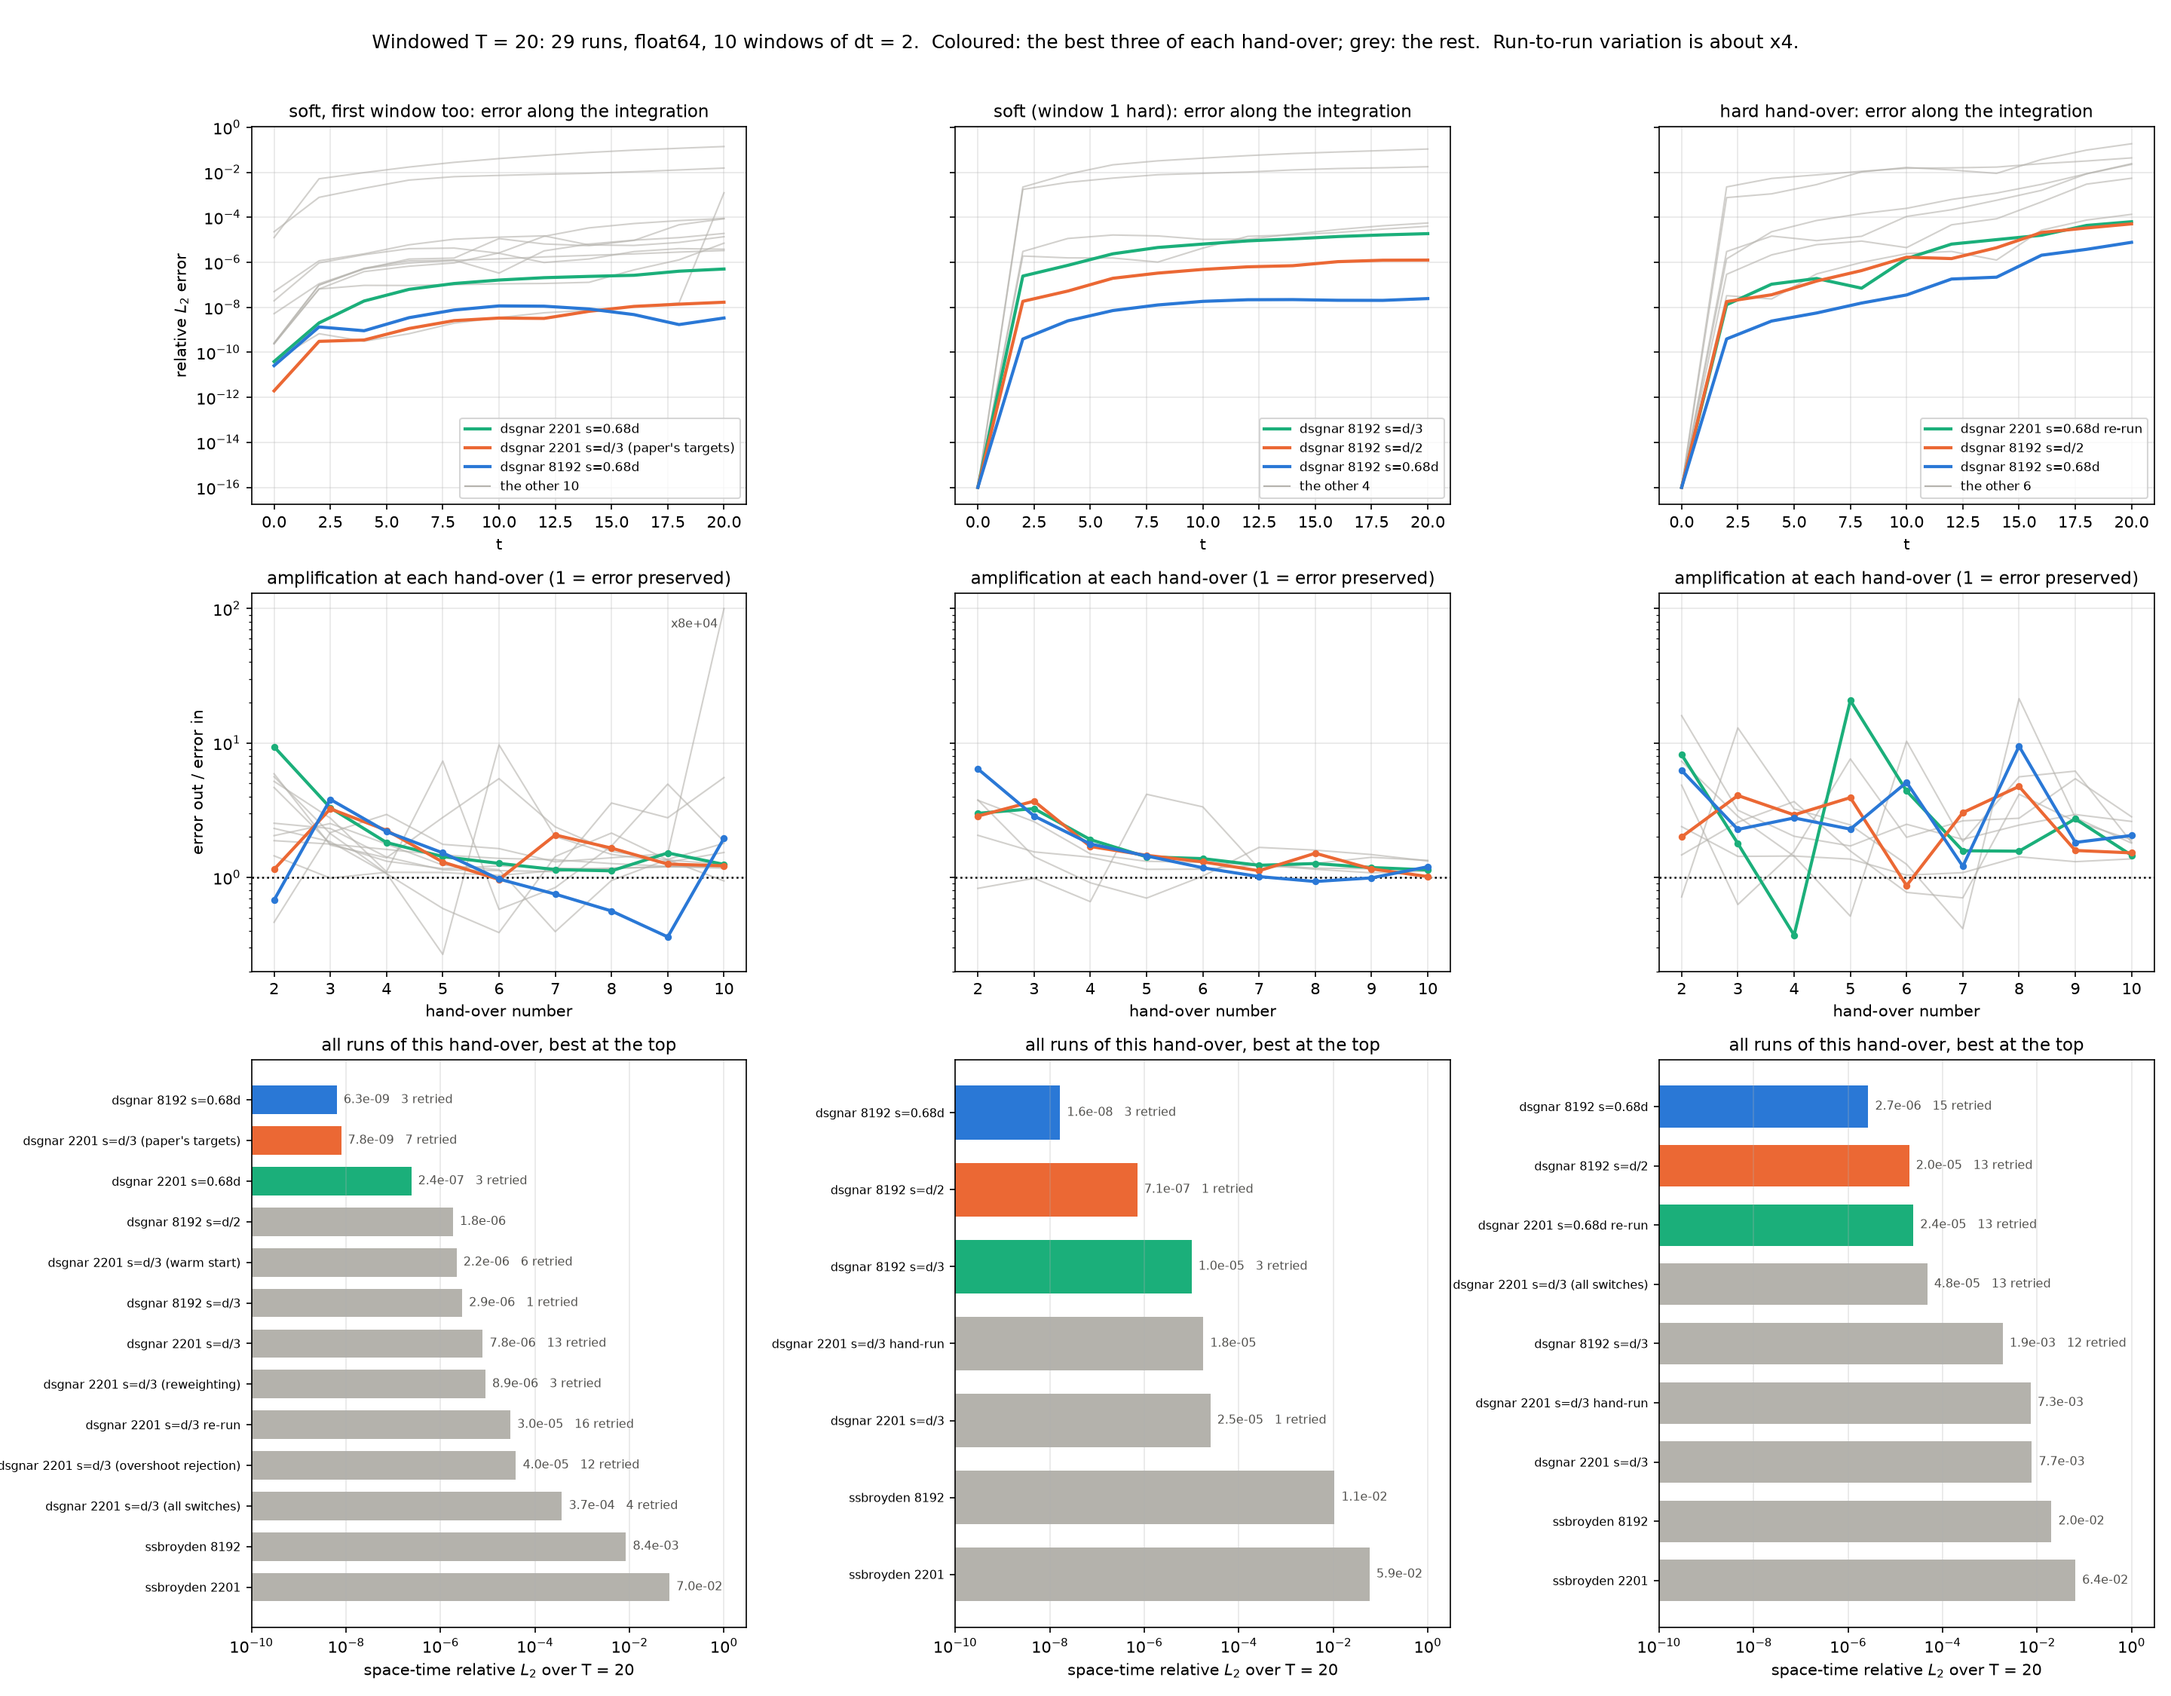
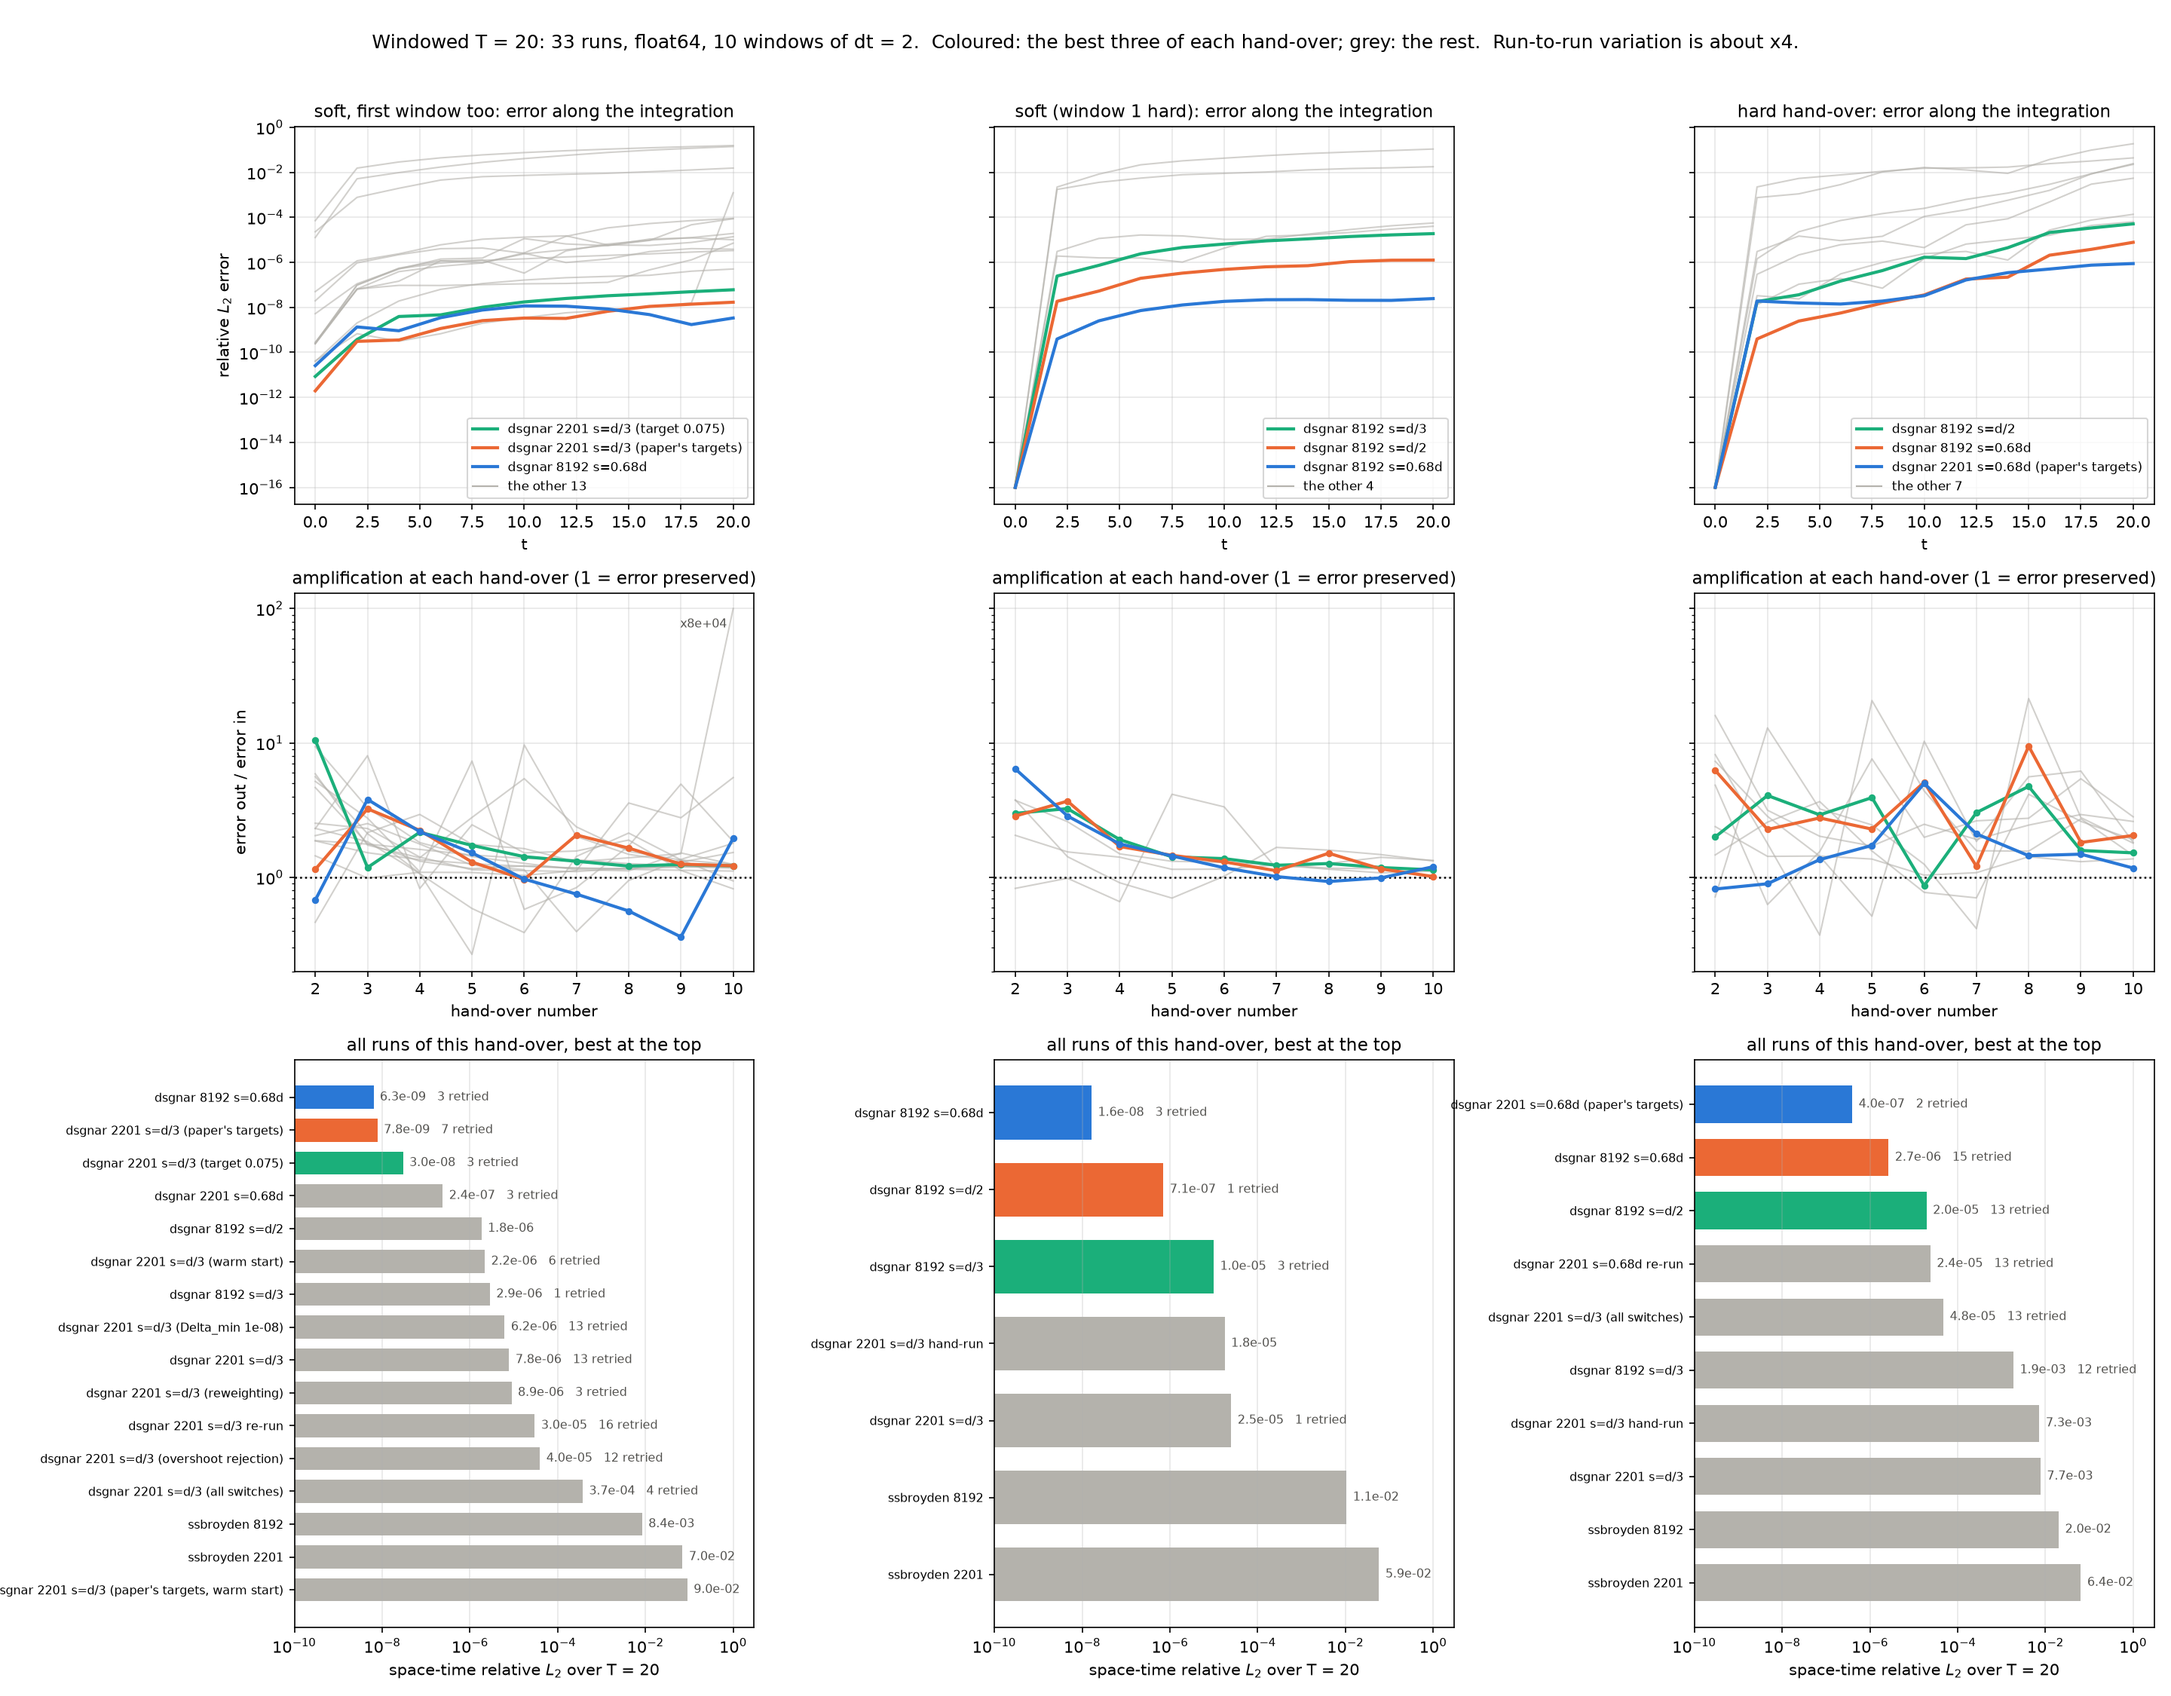
Evolution_try round 2 results: target 0.075 alone gives 3.0e-8 (Delta_min alone nothing), the warm start breaks window 1 (9.0e-2), the targets on the hard hand-over 4.0e-7 at 2201 points (7x the old best); BATCH_REPORT regenerated (34 runs)

diff --git a/Evolution_try/BATCH_REPORT.md b/Evolution_try/BATCH_REPORT.md
@@ -1,6 +1,6 @@
 # Windowed T = 20: every run
 
-29 runs, all float64, 10 windows of dt = 2, ansatz t2.  Generated by `scripts/report_batch.py` from each `runs/<name>/windows.json`; rerun it after new runs.
+33 runs, all float64, 10 windows of dt = 2, ansatz t2.  Generated by `scripts/report_batch.py` from each `runs/<name>/windows.json`; rerun it after new runs.
 
 **How to read it.**  The error is the space-time relative L2 of the whole T = 20 chain against the exact solution.  Run-to-run variation of one configuration is about **x4** (`dsgnar_soft_all_nc2201` 7.8e-06 against its re-run `dsgnar_soft_all_nc2201_audit` 3.0e-05), so only larger differences mean anything.  `s` is the column sketch (d = 2201 parameters; d/3 = 733).  *changes* are the switches of README 6.13 that differ from the batch defaults (target 0.15, Delta_min 1e-14, fresh init per window, no overshoot rejection, no reweighting).  *retries* counts windows redrawn after a stall; *worst window* is the largest final window loss.  Within each hand-over, best first.
 
@@ -12,10 +12,12 @@
 |---|---|---|---|---|---|---|---|---|---|
 | `dsgnar_soft_all_nc8192_s1500` | dsgnar | 8192 | 0.68d | -- | **6.34e-09** | 1e-19 | 3 | 1.42 | 96 min |
 | `pp_soft_all_targets` | dsgnar | 2201 | d/3 | target 0.075, Delta_min 1e-08 | 7.82e-09 | 1e-19 | 7 | 1.68 | 98 min |
+| `pp_soft_all_t075` | dsgnar | 2201 | d/3 | target 0.075 | 2.99e-08 | 6e-20 | 3 | 2.44 | 87 min |
 | `dsgnar_soft_all_nc2201_s1500` | dsgnar | 2201 | 0.68d | -- | 2.40e-07 | 6e-19 | 3 | 2.47 | 46 min |
 | `dsgnar_soft_all_nc8192_s1100` | dsgnar | 8192 | d/2 | -- | 1.83e-06 | 2e-15 | 0 | 1.65 | 53 min |
 | `pp_soft_all_warm` | dsgnar | 2201 | d/3 | warm start | 2.18e-06 | 2e-14 | 6 | 2.07 | 64 min |
 | `dsgnar_soft_all_nc8192` | dsgnar | 8192 | d/3 | -- | 2.86e-06 | 2e-14 | 1 | 1.34 | 58 min |
+| `pp_soft_all_dmin8` | dsgnar | 2201 | d/3 | Delta_min 1e-08 | 6.18e-06 | 1e-14 | 13 | 2.29 | 84 min |
 | `dsgnar_soft_all_nc2201` | dsgnar | 2201 | d/3 | -- | 7.83e-06 | 2e-14 | 13 | 2.79 | 76 min |
 | `pp_soft_all_reweight` | dsgnar | 2201 | d/3 | reweighting | 8.89e-06 | 2e-12 | 3 | 1.47 | 61 min |
 | `dsgnar_soft_all_nc2201_audit` | dsgnar | 2201 | d/3 | -- | 3.00e-05 | 5e-13 | 16 | 2.92 | 116 min |
@@ -23,6 +25,7 @@
 | `pp_soft_all_all` | dsgnar | 2201 | d/3 | target 0.075, Delta_min 1e-08, warm start, overshoot rejection, reweighting | 3.71e-04 | 2e-08 | 4 | 8721.79 | 87 min |
 | `ssbroyden_soft_all_nc8192` | ssbroyden | 8192 | -- | -- | 8.41e-03 | 1e-08 | 0 | 1.47 | 6 min |
 | `ssbroyden_soft_all_nc2201` | ssbroyden | 2201 | -- | -- | 7.02e-02 | 2e-08 | 0 | 1.46 | 5 min |
+| `pp_soft_all_targets_warm` | dsgnar | 2201 | d/3 | target 0.075, Delta_min 1e-08, warm start | 9.04e-02 | 6e-07 | 0 | 1.31 | 53 min |
 
 ## Hand-over: soft
 
@@ -40,6 +43,7 @@
 
 | run | optimiser | n_coll | s | changes | rel L2 (T = 20) | worst window | retries | mean amplification | wall |
 |---|---|---|---|---|---|---|---|---|---|
+| `pp_hard_targets_s1500` | dsgnar | 2201 | 0.68d | target 0.075, Delta_min 1e-08 | 3.98e-07 | 5e-18 | 2 | 1.78 | 87 min |
 | `dsgnar_hard_nc8192_s1500` | dsgnar | 8192 | 0.68d | -- | 2.67e-06 | 2e-12 | 15 | 3.69 | 198 min |
 | `dsgnar_hard_nc8192_s1100` | dsgnar | 8192 | d/2 | -- | 1.96e-05 | 3e-11 | 13 | 2.74 | 138 min |
 | `dsgnar_hard_nc2201_s1500_audit` | dsgnar | 2201 | 0.68d | -- | 2.40e-05 | 5e-12 | 13 | 4.75 | 113 min |
@@ -94,6 +98,16 @@
 | `pp_hard_all` | 8 | [14, 16] | 1.53e-13 | 1.27e-06 | 1.56e-05 | x21.40 | 4 |
 | `pp_hard_all` | 9 | [16, 18] | 1.28e-13 | 2.71e-05 | 5.46e-05 | x2.79 | 4 |
 | `pp_hard_all` | 10 | [18, 20] | 1.48e-13 | 7.54e-05 | 1.10e-04 | x1.80 | 4 |
+| `pp_hard_targets_s1500` | 1 | [0, 2] | 3.77e-19 | 0.00e+00 | 1.16e-08 | xnan | 4 |
+| `pp_hard_targets_s1500` | 2 | [2, 4] | 3.12e-21 | 1.91e-08 | 1.41e-08 | x0.82 | 4 |
+| `pp_hard_targets_s1500` | 3 | [4, 6] | 1.16e-20 | 1.57e-08 | 1.09e-08 | x0.90 | 4 |
+| `pp_hard_targets_s1500` | 4 | [6, 8] | 4.77e-20 | 1.40e-08 | 1.37e-08 | x1.36 | 4 |
+| `pp_hard_targets_s1500` | 5 | [8, 10] | 1.07e-19 | 1.90e-08 | 2.56e-08 | x1.73 | 4 |
+| `pp_hard_targets_s1500` | 6 | [10, 12] | 2.34e-19 | 3.29e-08 | 1.11e-07 | x5.01 | 4 |
+| `pp_hard_targets_s1500` | 7 | [12, 14] | 7.85e-19 | 1.65e-07 | 2.68e-07 | x2.11 | 4 |
+| `pp_hard_targets_s1500` | 8 | [14, 16] | 9.49e-19 | 3.47e-07 | 4.33e-07 | x1.45 | 4 |
+| `pp_hard_targets_s1500` | 9 | [16, 18] | 2.42e-18 | 5.04e-07 | 6.41e-07 | x1.49 | 4 |
+| `pp_hard_targets_s1500` | 10 | [18, 20] | 5.00e-18 | 7.50e-07 | 8.21e-07 | x1.17 | 4 |
 | `dsgnar_hard_nc8192` | 1 | [0, 2] | 8.63e-16 | 0.00e+00 | 1.90e-07 | xnan | 4 |
 | `dsgnar_hard_nc8192` | 2 | [2, 4] | 2.38e-13 | 2.93e-07 | 1.66e-06 | x7.31 | 4 |
 | `dsgnar_hard_nc8192` | 3 | [4, 6] | 2.89e-14 | 2.14e-06 | 4.42e-06 | x2.85 | 4 |
@@ -214,6 +228,16 @@
 | `pp_soft_all_all` | 8 | [14, 16] | 5.21e-18 | 7.48e-09 | 8.69e-09 | x1.40 | 4 |
 | `pp_soft_all_all` | 9 | [16, 18] | 1.54e-18 | 1.05e-08 | 1.33e-08 | x1.50 | 4 |
 | `pp_soft_all_all` | 10 | [18, 20] | 1.65e-08 | 1.57e-08 | 8.56e-04 | x78482.94 | 4 |
+| `pp_soft_all_dmin8` | 1 | [0, 2] | 2.26e-18 | 0.00e+00 | 3.92e-08 | xnan | 4 |
+| `pp_soft_all_dmin8` | 2 | [2, 4] | 7.22e-17 | 6.30e-08 | 1.21e-07 | x2.31 | 4 |
+| `pp_soft_all_dmin8` | 3 | [4, 6] | 3.74e-15 | 1.45e-07 | 7.33e-07 | x8.05 | 4 |
+| `pp_soft_all_dmin8` | 4 | [6, 8] | 2.04e-15 | 1.17e-06 | 9.77e-07 | x0.83 | 4 |
+| `pp_soft_all_dmin8` | 5 | [8, 10] | 1.67e-15 | 9.67e-07 | 1.74e-06 | x2.46 | 4 |
+| `pp_soft_all_dmin8` | 6 | [10, 12] | 6.01e-16 | 2.38e-06 | 3.07e-06 | x1.52 | 4 |
+| `pp_soft_all_dmin8` | 7 | [12, 14] | 3.61e-15 | 3.63e-06 | 4.75e-06 | x1.57 | 4 |
+| `pp_soft_all_dmin8` | 8 | [14, 16] | 3.11e-15 | 5.70e-06 | 8.58e-06 | x1.90 | 4 |
+| `pp_soft_all_dmin8` | 9 | [16, 18] | 1.29e-14 | 1.08e-05 | 1.17e-05 | x1.13 | 4 |
+| `pp_soft_all_dmin8` | 10 | [18, 20] | 2.12e-15 | 1.22e-05 | 1.10e-05 | x0.82 | 4 |
 | `pp_soft_all_overshoot` | 1 | [0, 2] | 2.13e-18 | 0.00e+00 | 3.91e-08 | xnan | 4 |
 | `pp_soft_all_overshoot` | 2 | [2, 4] | 7.33e-16 | 6.55e-08 | 3.67e-07 | x5.90 | 4 |
 | `pp_soft_all_overshoot` | 3 | [4, 6] | 9.42e-17 | 3.86e-07 | 5.56e-07 | x1.74 | 4 |
@@ -234,6 +258,16 @@
 | `pp_soft_all_reweight` | 8 | [14, 16] | 4.44e-13 | 5.93e-06 | 6.31e-06 | x0.95 | 4 |
 | `pp_soft_all_reweight` | 9 | [16, 18] | 1.70e-14 | 5.62e-06 | 7.76e-06 | x1.36 | 4 |
 | `pp_soft_all_reweight` | 10 | [18, 20] | 1.70e-13 | 7.66e-06 | 1.16e-05 | x1.79 | 4 |
+| `pp_soft_all_t075` | 1 | [0, 2] | 1.37e-20 | 0.00e+00 | 3.28e-10 | xnan | 4 |
+| `pp_soft_all_t075` | 2 | [2, 4] | 1.66e-20 | 3.74e-10 | 2.21e-09 | x10.49 | 4 |
+| `pp_soft_all_t075` | 3 | [4, 6] | 6.27e-20 | 3.92e-09 | 4.14e-09 | x1.18 | 4 |
+| `pp_soft_all_t075` | 4 | [6, 8] | 1.06e-20 | 4.65e-09 | 7.80e-09 | x2.17 | 4 |
+| `pp_soft_all_t075` | 5 | [8, 10] | 1.55e-20 | 1.01e-08 | 1.43e-08 | x1.73 | 4 |
+| `pp_soft_all_t075` | 6 | [10, 12] | 4.25e-22 | 1.74e-08 | 2.16e-08 | x1.43 | 4 |
+| `pp_soft_all_t075` | 7 | [12, 14] | 3.48e-21 | 2.48e-08 | 2.93e-08 | x1.32 | 4 |
+| `pp_soft_all_t075` | 8 | [14, 16] | 1.19e-20 | 3.28e-08 | 3.65e-08 | x1.21 | 4 |
+| `pp_soft_all_t075` | 9 | [16, 18] | 1.17e-21 | 3.97e-08 | 4.53e-08 | x1.25 | 4 |
+| `pp_soft_all_t075` | 10 | [18, 20] | 6.32e-20 | 4.96e-08 | 5.57e-08 | x1.22 | 4 |
 | `pp_soft_all_targets` | 1 | [0, 2] | 1.35e-22 | 0.00e+00 | 1.73e-10 | xnan | 4 |
 | `pp_soft_all_targets` | 2 | [2, 4] | 8.41e-21 | 3.09e-10 | 3.06e-10 | x1.15 | 4 |
 | `pp_soft_all_targets` | 3 | [4, 6] | 6.70e-21 | 3.54e-10 | 7.37e-10 | x3.24 | 4 |
@@ -244,6 +278,16 @@
 | `pp_soft_all_targets` | 8 | [14, 16] | 1.17e-21 | 6.67e-09 | 9.20e-09 | x1.65 | 4 |
 | `pp_soft_all_targets` | 9 | [16, 18] | 3.58e-20 | 1.10e-08 | 1.29e-08 | x1.26 | 4 |
 | `pp_soft_all_targets` | 10 | [18, 20] | 6.98e-20 | 1.38e-08 | 1.52e-08 | x1.22 | 4 |
+| `pp_soft_all_targets_warm` | 1 | [0, 2] | 5.73e-07 | 0.00e+00 | 1.05e-02 | xnan | 4 |
+| `pp_soft_all_targets_warm` | 2 | [2, 4] | 4.89e-10 | 1.54e-02 | 2.27e-02 | x1.87 | 4 |
+| `pp_soft_all_targets_warm` | 3 | [4, 6] | 6.18e-13 | 2.87e-02 | 3.72e-02 | x1.53 | 4 |
+| `pp_soft_all_targets_warm` | 4 | [6, 8] | 2.78e-14 | 4.38e-02 | 5.25e-02 | x1.36 | 4 |
+| `pp_soft_all_targets_warm` | 5 | [8, 10] | 9.67e-15 | 5.94e-02 | 6.81e-02 | x1.26 | 4 |
+| `pp_soft_all_targets_warm` | 6 | [10, 12] | 1.67e-15 | 7.51e-02 | 8.38e-02 | x1.21 | 4 |
+| `pp_soft_all_targets_warm` | 7 | [12, 14] | 6.96e-16 | 9.10e-02 | 9.96e-02 | x1.17 | 4 |
+| `pp_soft_all_targets_warm` | 8 | [14, 16] | 1.44e-13 | 1.07e-01 | 1.15e-01 | x1.15 | 4 |
+| `pp_soft_all_targets_warm` | 9 | [16, 18] | 4.51e-14 | 1.23e-01 | 1.31e-01 | x1.13 | 4 |
+| `pp_soft_all_targets_warm` | 10 | [18, 20] | 1.80e-13 | 1.39e-01 | 1.47e-01 | x1.11 | 4 |
 | `pp_soft_all_warm` | 1 | [0, 2] | 2.13e-18 | 0.00e+00 | 3.91e-08 | xnan | 4 |
 | `pp_soft_all_warm` | 2 | [2, 4] | 8.71e-19 | 6.55e-08 | 8.76e-08 | x1.45 | 4 |
 | `pp_soft_all_warm` | 3 | [4, 6] | 6.52e-20 | 9.47e-08 | 9.72e-08 | x0.99 | 4 |

diff --git a/Evolution_try/README.md b/Evolution_try/README.md
@@ -1129,7 +1129,24 @@ the exact LM step gaining ~10%: for soft_all, rank is not the whole story.
 Round 2 (Mendieta, submitted 2026-10-16): the targets' two halves separately
 (`pp_soft_all_t075`, `pp_soft_all_dmin8`), the targets with the warm start
 (`pp_soft_all_targets_warm`, no overshoot rule), and the targets on the hard cell at s = 1500
-(`pp_hard_targets_s1500`).  Results: pending.
+(`pp_hard_targets_s1500`).  Results (space-time rel L2, T = 20; BATCH_REPORT.md):
+
+| run | what changes against the batch defaults | rel L2 | compare |
+|---|---|---|---|
+| `pp_soft_all_t075` | target 0.075 only | **2.99e-8** | baseline 7.8e-6; both targets 7.8e-9 |
+| `pp_soft_all_dmin8` | Delta_min 1e-8 only | 6.18e-6 | baseline 7.8e-6 |
+| `pp_soft_all_targets_warm` | both targets + warm start | **9.04e-2** | targets alone 7.8e-9 |
+| `pp_hard_targets_s1500` | both targets, hard hand-over, s = 1500, 2201 points | **3.98e-7** | best hard so far 2.7e-6 (s = 1500, 8192 points) |
+
+* **The target 0.075 is what does it**: alone it gives 3.0e-8, 260x the baseline, and Delta_min 1e-8
+  alone gives nothing (6.2e-6, within the x4 run-to-run variation); together 7.8e-9.
+* **The warm start breaks it**: window 1 stops at loss 5.7e-7 (the other runs reach ~1e-17 there)
+  with a window error of 1.0e-2, and every later window inherits it (x1.1-1.9 per hand-over, 0.15 at
+  T = 20).  Window 1 has no previous window to warm-start from, so the warm-start code path itself
+  changes what window 1 does -- not yet understood.
+* **The targets fix the hard hand-over too**: 3.98e-7 at only 2201 points, 7x below the best hard run
+  of the old batch (which used 8192).  Its window losses are 1e-18..1e-21 and the amplification
+  x0.8-5 per hand-over.
 
 ## 7. Tests
 
